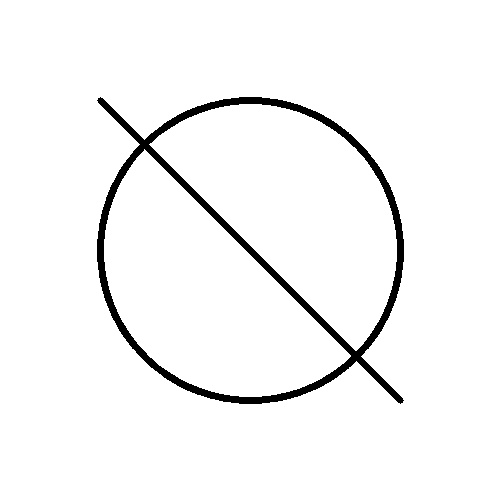
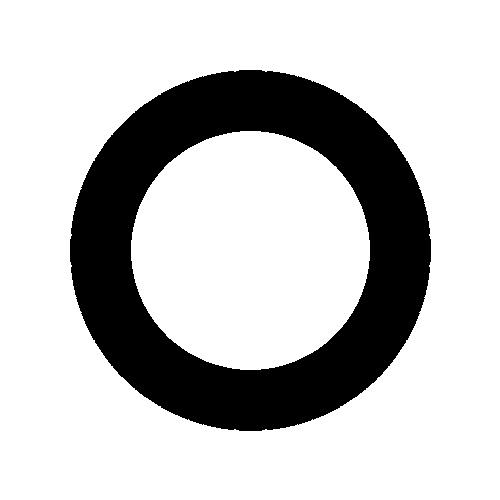
feat(train): add lbfgs

diff --git a/lbfgs.py b/lbfgs.py
@@ -71,7 +71,7 @@ def main(resume_step=None,num_sources=1):
     p = PlateParams()
     p.E, p.nu, p.rho = 70.0e9, 0.33, 2700.0
     p.dx = p.dy = L / N
-    p.eta = 0.02
+    p.eta = 1e-4
 
     chladni_solver = DifferentiableDirectSolver(p, N, N)
 
@@ -87,17 +87,70 @@ def main(resume_step=None,num_sources=1):
     # init_positions = torch.rand((num_sources, 2), device="cuda").float() 
     init_positions = torch.tensor([[0.5, 0.5]], device="cuda").float()
     
-    pos_tensor = init_positions.clone().detach().requires_grad_(False).float() 
-    
+    pos_tensor = init_positions.clone().detach().requires_grad_(True).float() 
 
     target_freq = 1250.0 
     freq_tensor = torch.tensor([target_freq], device="cuda", requires_grad=True)
     
-    optimizer = optim.Adam([
-        {'params': [h_tensor], 'lr': 0.01},
-        # {'params': pos_tensor, 'lr': 2e-2},  
-        {'params': freq_tensor, 'lr': 10.0}  
-    ])
+    
+    optimizer = optim.LBFGS([h_tensor, pos_tensor, freq_tensor], 
+                         lr=2e-2, 
+                         max_iter=20, 
+                         history_size=10)
+    state = {
+        'loss': 0.0,
+        'l1': 0.0,
+        'l2': 0.0,
+        'l3': 0.0,
+        'w_complex': None,
+        'fr_np': None,
+        'curr_freq': 0.0
+    }
+    def closure():
+        optimizer.zero_grad()
+        
+        # 物理参数同步
+        h_wp = wp.from_torch(h_tensor)
+        curr_f = freq_tensor.item()
+        p.omega = 2.0 * np.pi * curr_f
+        
+        # 这里的 force_tensor 需要在 closure 内计算以便 autograd 记录
+        force_tensor = generate_gaussian_force(N, pos_tensor)
+        curr_fr_np = force_tensor.detach().cpu().numpy()
+        fr_wp = wp.from_numpy(curr_fr_np.astype(np.float32), device="cuda")
+    
+        # 求解
+        w_c = chladni_solver.solve(h_wp, fr_wp, fi_wp)
+    
+        # 计算 Loss
+        loss_val, g_wr, g_wi, l1_val, l2_val, l3_val = compute_loss_and_adjoint_force(
+            w_c.real, w_c.imag, N, target_pattern
+        )
+    
+        # 计算伴随梯度
+        grad_h, grad_fr_np, grad_omega = chladni_solver.compute_adjoint_gradient(
+            h_wp, w_c, g_wr + 1j * g_wi
+        )
+    
+        # 填充梯度
+        gh_torch = torch.from_numpy(grad_h).cuda().float().reshape(1,1,N,N)
+        gh_smooth = torch.nn.functional.avg_pool2d(gh_torch, 3, 1, 1)
+        h_tensor.grad = gh_smooth.flatten()
+        
+        # 力和频率的梯度
+        force_tensor.backward(torch.from_numpy(grad_fr_np).cuda())
+        freq_tensor.grad = torch.tensor([grad_omega * 2.0 * np.pi], device="cuda", dtype=torch.float32)
+        
+        # --- 将内部变量传出到外部 state 字典 ---
+        state['loss'] = loss_val
+        state['l1'] = l1_val
+        state['l2'] = l2_val
+        state['l3'] = l3_val
+        state['w_complex'] = w_c
+        state['fr_np'] = curr_fr_np
+        state['curr_freq'] = curr_f
+    
+        return loss_val
 
     # idx_center = (N // 2) * N + (N // 2)
 
@@ -192,69 +245,23 @@ def main(resume_step=None,num_sources=1):
             print(f"Checkpoint directory {checkpoint_dir} not found. Starting from scratch.")
     # scheduler = optim.lr_scheduler.ReduceLROnPlateau(optimizer, 'min', patience=100, factor=0.5)
     for step in range(100000):
-        optimizer.zero_grad()
-
-        curr_freq = freq_tensor.item()
-        p.omega = 2.0 * np.pi * curr_freq
-        
-        force_tensor = generate_gaussian_force(N, pos_tensor)
-        fr_np = force_tensor.detach().cpu().numpy()
-        
-        # h_wp = wp.from_numpy(h_np, device="cuda")
-        h_wp = wp.from_torch(h_tensor)
-
-        fr_wp = wp.from_numpy(fr_np.astype(np.float32), device="cuda")
         
         try:
-            w_complex = chladni_solver.solve(h_wp, fr_wp, fi_wp)
-            wr_np, wi_np = w_complex.real, w_complex.imag
-            
-            curr_loss, g_wr, g_wi,l1,l2,l3 = compute_loss_and_adjoint_force(
-                wr_np, wi_np, N, target_pattern
-            )
-            
-            grad_w_complex = g_wr + 1j * g_wi
-
-
-            grad_h, grad_fr_np, grad_omega = chladni_solver.compute_adjoint_gradient(h_wp, w_complex, grad_w_complex)
-            
-            gh_torch = torch.from_numpy(grad_h).cuda().float().reshape(1, 1, N, N)
-            gh_smooth = torch.nn.functional.avg_pool2d(gh_torch, kernel_size=3, stride=1, padding=1)
-
-            # h_tensor.grad = torch.from_numpy(grad_h).cuda().float()
-            grad_h_norm = torch.norm(gh_smooth) + 1e-10
-            h_tensor.grad = (gh_smooth / grad_h_norm).flatten()
-
-            # 厚度 
-            # grad_norm = np.max(np.abs(grad_h)) + 1e-10
-            # h_np -= learning_rate_h * (grad_h / grad_norm) 
-
-
-            # grad_h_2d = grad_h.reshape(N, N)
-
-            # grad_h_smooth = ndimage.gaussian_filter(grad_h_2d, sigma=0.1)
-
-            # h_np -= learning_rate_h * grad_h_smooth.flatten() 
-            # h_np = np.clip(h_np, 0.000, 0.010)
-
-
-            # 位置和频率
-            # grad_fr_tensor = torch.from_numpy(grad_fr_np).cuda().float()
-            # force_tensor.backward(grad_fr_tensor)
-        
-            # 频率梯度: dL/dfreq = dL/domega * (2*pi)
-            freq_tensor.grad = torch.tensor([grad_omega * 2.0 * np.pi], device="cuda",dtype=torch.float32)
-
-            
-            # scheduler.step(curr_loss)
-            optimizer.step()
+            optimizer.step(closure)
 
             
             with torch.no_grad():
                 pos_tensor.clamp_(0.05, 0.95)
                 freq_tensor.clamp_(10.0, 20000.0)
-                h_tensor.clamp_(0.000, 0.006)
+                h_tensor.clamp_(0.0001, 0.006)
                 h_np = h_tensor.cpu().numpy()
+            curr_loss = state['loss']
+            curr_freq = state['curr_freq']
+            w_complex = state['w_complex']
+            fr_np = state['fr_np']
+            l1 = state['l1']
+            l2 = state['l2']
+            l3 = state['l3']
 
             print(f"Step {step:04d} | Loss: {curr_loss:.6f} | Freq: {curr_freq:.1f}Hz)")
             loss_history.append(curr_loss)

diff --git a/test.py b/test.py
@@ -16,7 +16,8 @@ def getDepth(N: int,L:float):
             y = (i*1.0 / N)
             # if(y<x*1.9 and y<(1-x)*1.9 and y>0.1):
             #     h_np[idx] = 0.001
-            if((x-0.5)**2+(y-0.5)**2 < 0.2**2):
+            # if((x-0.5)**2+(y-0.5)**2 > 0.2**2 and (x-0.5)**2+(y-0.5)**2 < 0.25**2):
+            if( x>0.7 and x<0.8):
                 h_np[idx] = 0.000
     return h_np
 
@@ -48,7 +49,7 @@ def main():
     fr_np = np.zeros(N * N, dtype=np.float32)
     
     # 第一个源：强度 1.0
-    idx1 = (N // 4) * N + (N // 2)
+    idx1 = (N // 2) * N + (N // 2)
     fr_np[idx1] = 1.0 
     
     # # 第二个源：强度 10.0

diff --git a/image.py b/image.py
@@ -22,12 +22,12 @@ def process_target_image_smooth(image_path: str, N: int, sigma: float = 3.0) -> 
 
 
 if __name__ == "__main__":
-    N = 128
+    N = 64
     
-    # img_test = np.ones((500, 500), dtype=np.uint8) * 255
-    # cv2.circle(img_test, (250, 250), 150, 0, 5) 
+    img_test = np.ones((500, 500), dtype=np.uint8) * 255
+    cv2.circle(img_test, (250, 250), 150, 0, 60) 
     # cv2.line(img_test, (100, 100), (400, 400), 0, 5)
-    # cv2.imwrite("temp_target.jpg", img_test)
+    cv2.imwrite("target.jpg", img_test)
 
     
     plt.figure(figsize=(5, 5), facecolor='black')

diff --git a/loss.py b/loss.py
@@ -8,12 +8,10 @@ def ssim_loss(display_pattern, target_pattern):
     return 1.0 - similarity_index
 
 
-def physics_informed_loss(amp, target_pattern):
-    energy_field = amp ** 2
+def physics_informed_loss(energy_field, target_pattern):
+    energy_on_lines = torch.sum(energy_field * target_pattern)
     
-    energy_on_lines = np.sum(energy_field * target_pattern)
-    
-    total_energy = np.sum(energy_field) + 1e-10
+    total_energy = torch.sum(energy_field) + 1e-10
     
     loss = energy_on_lines / total_energy
     

diff --git a/direct_solver.py b/direct_solver.py
@@ -253,7 +253,7 @@ class DifferentiableDirectSolver:
             shape=(self.n, self.n)
         ).tocsr()
         diag = A_sparse.diagonal()
-        zero_diag_mask = np.abs(diag) < 1e-12
+        zero_diag_mask = np.abs(diag) < 0.1*1e-3
         if np.any(zero_diag_mask):
             patch = sp.diags(zero_diag_mask.astype(float), 0, shape=(self.n, self.n), format='csr')
             A_sparse = A_sparse + patch
